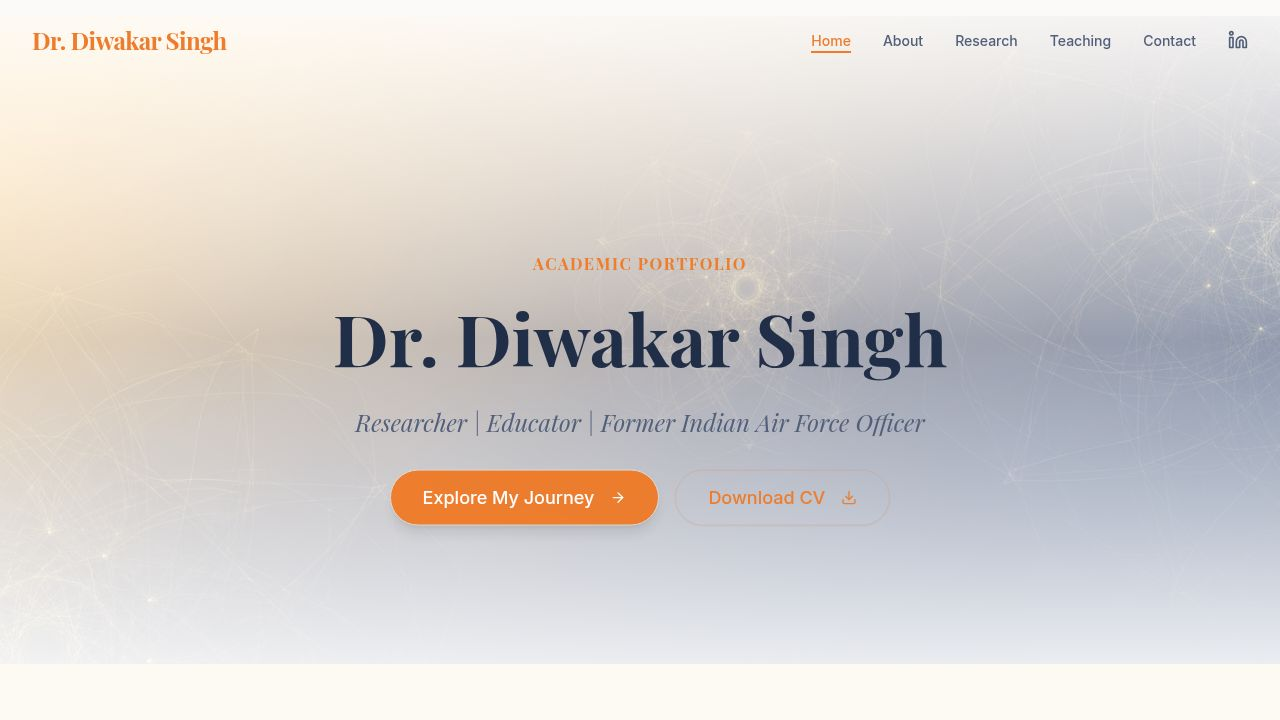
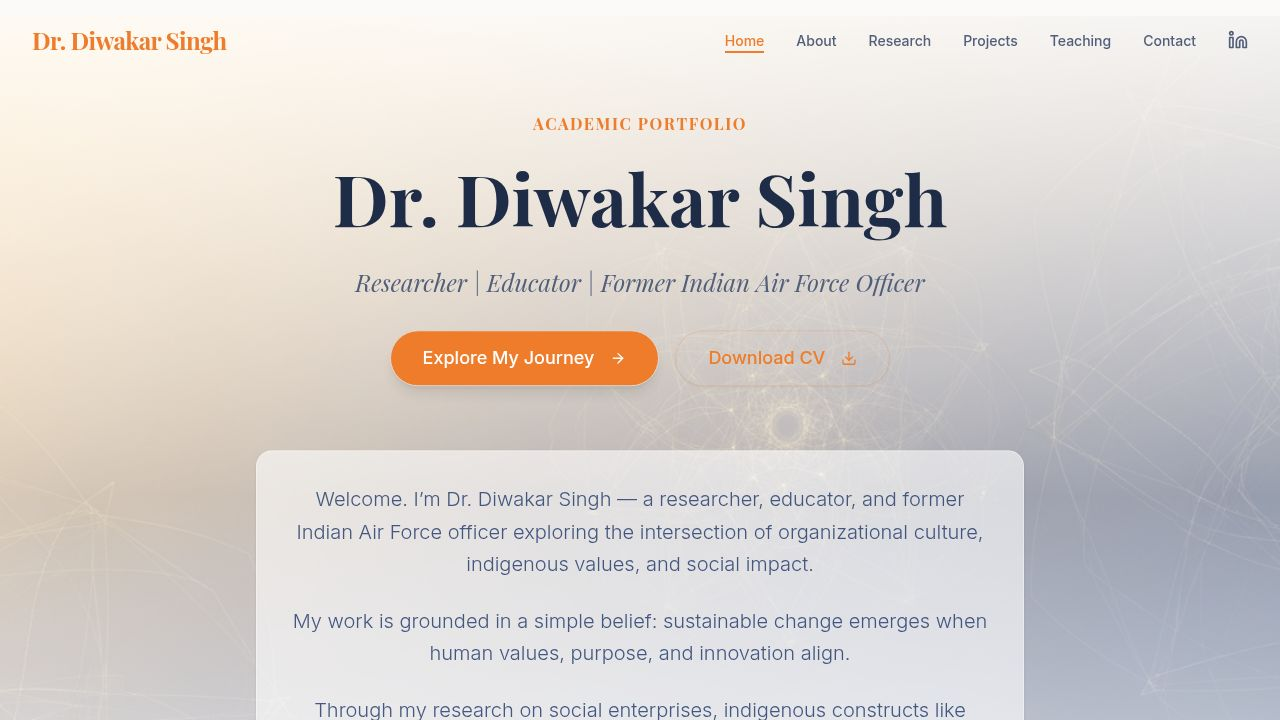
Add a dedicated page for projects and update navigation
Creates a new Projects page, adds a /projects route, updates the navigation bar to include a "Projects" link, and modifies the Research page to link to the new Projects page.

Replit-Commit-Author: Agent
Replit-Commit-Session-Id: 5a255b56-1e4c-40c3-bf8b-e644ff0625bf
Replit-Commit-Checkpoint-Type: full_checkpoint
Replit-Commit-Event-Id: 8a953e04-cc33-48f2-a96d-ca169b3c2d23
Replit-Commit-Screenshot-Url: https://storage.googleapis.com/screenshot-production-us-central1/f844c68b-0f58-4eb7-bc86-9a8088743dc7/5a255b56-1e4c-40c3-bf8b-e644ff0625bf/fUB3FKC
Replit-Helium-Checkpoint-Created: true

diff --git a/client/src/pages/Projects.tsx b/client/src/pages/Projects.tsx
@@ -1,0 +1,74 @@
+import { Layout } from "@/components/layout";
+import { motion } from "framer-motion";
+import { projects } from "@/lib/data";
+import { Card, CardContent, CardHeader, CardTitle } from "@/components/ui/card";
+import { Badge } from "@/components/ui/badge";
+import { Presentation } from "lucide-react";
+
+export default function Projects() {
+  return (
+    <Layout>
+      <div className="bg-background min-h-screen pb-24 font-serif">
+        <section className="container px-4 mx-auto py-20 max-w-4xl">
+          <motion.div
+            initial={{ opacity: 0, y: 20 }}
+            animate={{ opacity: 1, y: 0 }}
+            transition={{ duration: 0.8 }}
+            className="space-y-16"
+          >
+            {/* Header */}
+            <div className="text-center">
+              <h1 className="text-4xl md:text-5xl font-bold text-secondary mb-8">
+                Projects & Research Engagements
+              </h1>
+              <p className="text-xl text-muted-foreground max-w-2xl mx-auto">
+                Strategic initiatives and consulting projects focused on entrepreneurship ecosystem development and social impact.
+              </p>
+            </div>
+
+            {/* Projects Grid */}
+            <div className="grid md:grid-cols-2 gap-8">
+              {projects.map((project, i) => (
+                <motion.div
+                  key={i}
+                  initial={{ opacity: 0, scale: 0.95 }}
+                  whileInView={{ opacity: 1, scale: 1 }}
+                  viewport={{ once: true }}
+                  transition={{ delay: i * 0.1 }}
+                >
+                  <Card className="h-full bg-white border-orange-100 hover:shadow-lg transition-all group">
+                    <CardHeader className="pb-4">
+                      <CardTitle className="text-2xl font-bold text-secondary group-hover:text-primary transition-colors">
+                        {project.title}
+                      </CardTitle>
+                      <Badge variant="secondary" className="bg-primary/10 text-primary hover:bg-primary/20 border-none w-fit mt-3">
+                        {project.role}
+                      </Badge>
+                    </CardHeader>
+                    <CardContent>
+                      <p className="text-lg text-muted-foreground leading-relaxed">
+                        {project.description}
+                      </p>
+                    </CardContent>
+                  </Card>
+                </motion.div>
+              ))}
+            </div>
+
+            {/* Impact Section */}
+            <div className="bg-secondary text-white p-12 rounded-3xl relative overflow-hidden mt-16">
+              <div className="absolute top-0 right-0 w-64 h-64 bg-white/5 rounded-full blur-3xl -translate-y-1/2 translate-x-1/2" />
+              <div className="relative z-10 text-center max-w-3xl mx-auto">
+                <h2 className="text-3xl font-bold text-accent mb-6">Impact & Vision</h2>
+                <p className="text-xl font-light leading-relaxed text-white/90">
+                  These projects reflect my commitment to building sustainable entrepreneurship ecosystems, nurturing social enterprises, and fostering leadership that balances impact with innovation. Each engagement is grounded in a belief that meaningful change emerges through collaboration, strategic thinking, and deep understanding of local contexts.
+                </p>
+              </div>
+            </div>
+
+          </motion.div>
+        </section>
+      </div>
+    </Layout>
+  );
+}

diff --git a/client/src/pages/Research.tsx b/client/src/pages/Research.tsx
@@ -5,6 +5,7 @@ import { Tabs, TabsContent, TabsList, TabsTrigger } from "@/components/ui/tabs";
 import { Card, CardContent, CardHeader, CardTitle, CardDescription } from "@/components/ui/card";
 import { Badge } from "@/components/ui/badge";
 import { FileText, Book, Presentation } from "lucide-react";
+import { Link } from "wouter";
 
 export default function Research() {
   return (
@@ -165,33 +166,21 @@ export default function Research() {
                 </Tabs>
               </div>
 
-              {/* Sidebar: Projects */}
+              {/* Sidebar: View Projects Page */}
               <div className="lg:col-span-1">
-                <h2 className="text-2xl font-bold text-secondary mb-8 flex items-center gap-2">
-                  <Presentation className="w-6 h-6 text-primary" /> Projects
-                </h2>
-                
-                <div className="space-y-6">
-                  {projects.map((project, i) => (
-                    <Card key={i} className="bg-white border-orange-100 hover:shadow-md transition-all group">
-                      <CardHeader className="pb-3">
-                        <CardTitle className="text-lg font-bold text-secondary group-hover:text-primary transition-colors">
-                          {project.title}
-                        </CardTitle>
-                        <CardDescription>
-                          <Badge variant="secondary" className="bg-orange-50 text-orange-700 hover:bg-orange-100 border-none mt-2">
-                            {project.role}
-                          </Badge>
-                        </CardDescription>
-                      </CardHeader>
-                      <CardContent>
-                        <p className="text-base text-muted-foreground leading-relaxed">
-                          {project.description}
-                        </p>
-                      </CardContent>
-                    </Card>
-                  ))}
-                </div>
+                <Link href="/projects">
+                  <Card className="bg-gradient-to-br from-primary/10 to-accent/10 border-primary/20 hover:shadow-lg transition-all cursor-pointer h-full">
+                    <CardHeader className="text-center py-12">
+                      <div className="flex justify-center mb-4">
+                        <Presentation className="w-12 h-12 text-primary" />
+                      </div>
+                      <CardTitle className="text-2xl text-primary">View All Projects</CardTitle>
+                      <p className="text-sm text-muted-foreground mt-4">
+                        Explore detailed information about my research engagements and consulting projects.
+                      </p>
+                    </CardHeader>
+                  </Card>
+                </Link>
               </div>
             </div>
 

diff --git a/client/src/App.tsx b/client/src/App.tsx
@@ -8,6 +8,7 @@ import Home from "@/pages/Home";
 import About from "@/pages/About";
 import Research from "@/pages/Research";
 import Teaching from "@/pages/Teaching";
+import Projects from "@/pages/Projects";
 import Contact from "@/pages/Contact";
 
 // No changes needed in this function definition
@@ -18,6 +19,7 @@ function RouterComponent() {
       <Route path="/about" component={About} />
       <Route path="/research" component={Research} />
       <Route path="/teaching" component={Teaching} />
+      <Route path="/projects" component={Projects} />
       <Route path="/contact" component={Contact} />
       <Route component={NotFound} />
     </Switch>

diff --git a/client/src/components/layout.tsx b/client/src/components/layout.tsx
@@ -8,6 +8,7 @@ const navItems = [
   { label: "Home", href: "/" },
   { label: "About", href: "/about" },
   { label: "Research", href: "/research" },
+  { label: "Projects", href: "/projects" },
   { label: "Teaching", href: "/teaching" },
   { label: "Contact", href: "/contact" },
 ];
